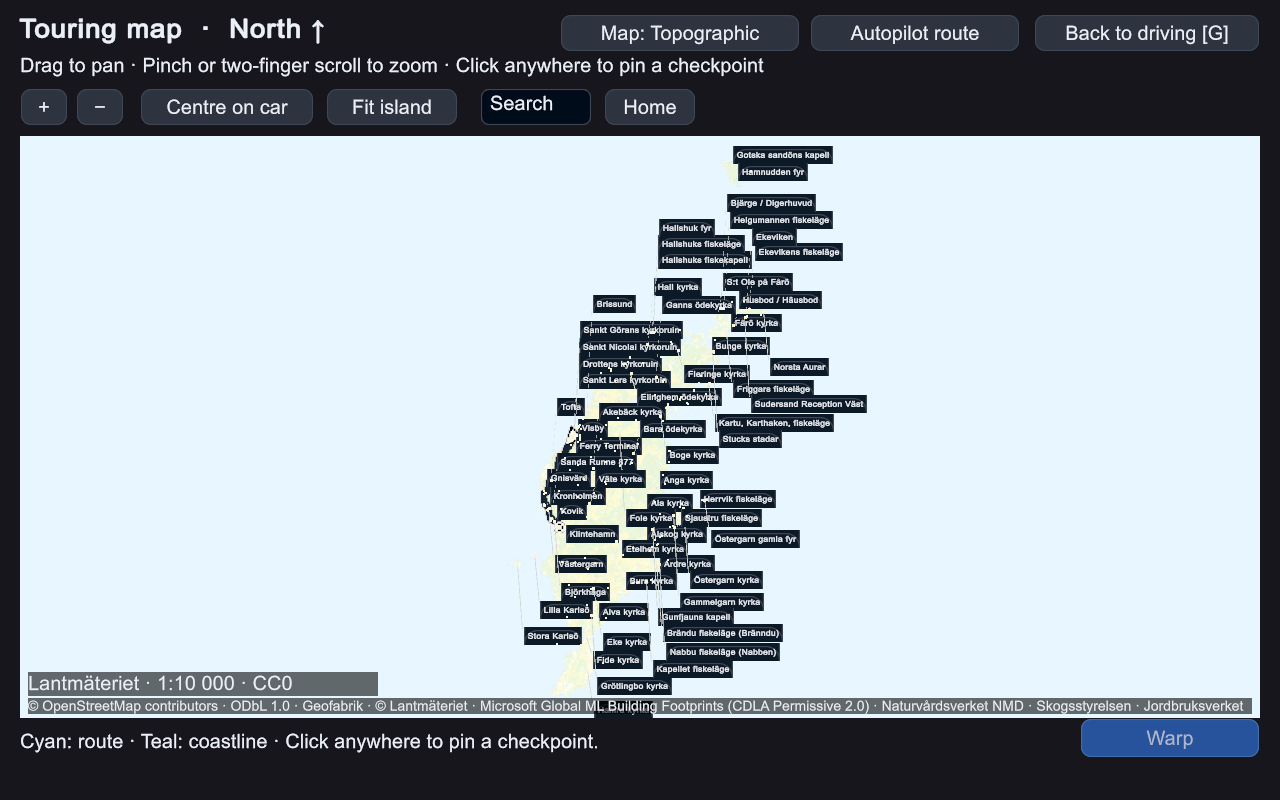
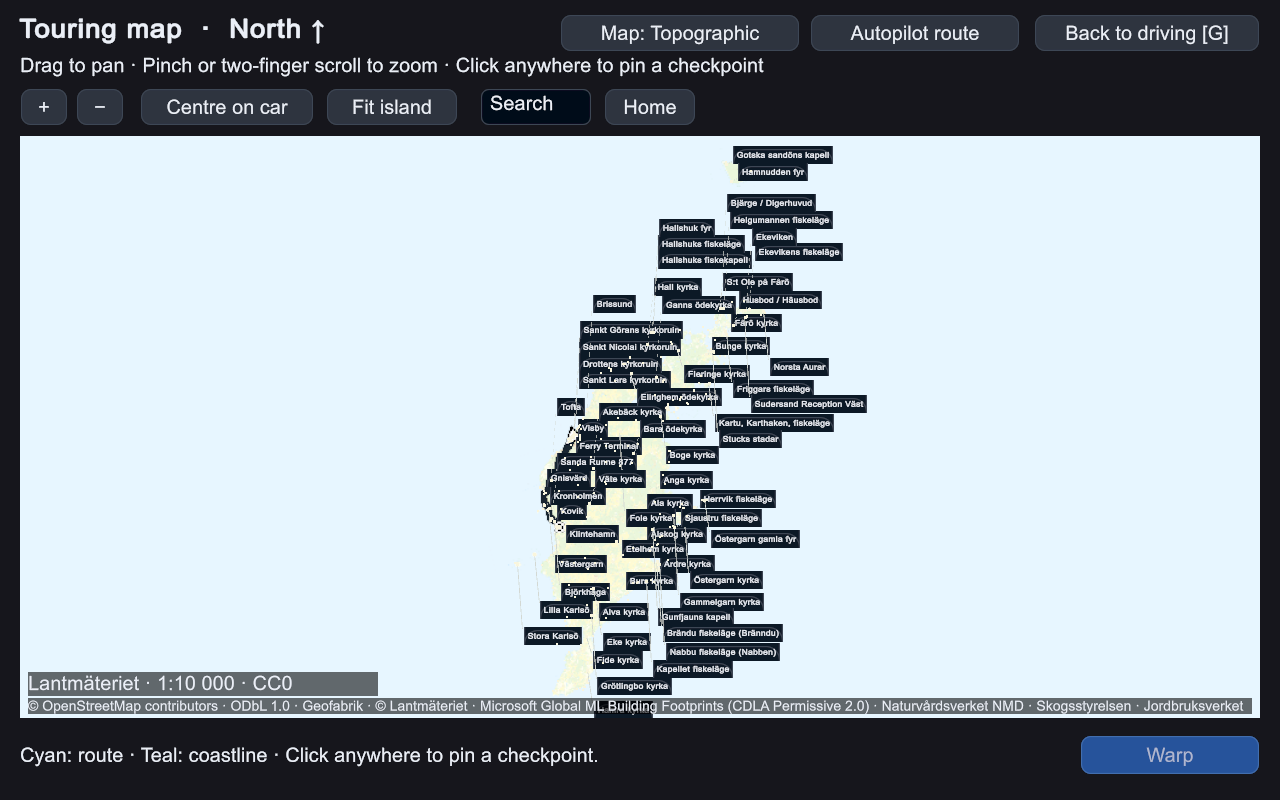
Refresh v0.1.4 screenshots and release download details

Changed region(s): [[0.0, 0.9062, 0.4688, 0.9688], [0.8438, 0.875, 1.0, 0.9688]]

diff --git a/README.md b/README.md
@@ -61,7 +61,7 @@ Use the named game files under **Releases → Assets**. GitHub's automatic **Sou
 
 | Package | Complete download | Installed size |
 |---|---:|---:|
-| macOS Apple Silicon | 5.124 GB | 5.481 GB |
+| macOS Apple Silicon | 5.125 GB | 5.481 GB |
 | Windows x64 | 5.108 GB | 5.531 GB |
 
 Sizes use decimal GB. When downloading an update, replace **all parts**
@@ -69,14 +69,14 @@ for that platform together; do not mix old and new files.
 
 ## Latest update
 
-- Modern dark menus and rounded controls. Gotland Ring groups the lap timer, FPS and side slip in one bottom-right panel, with five small buttons on one row and copyright in the footer. The space below the minimap stays clear.
+- Modern dark menus and rounded controls. Gotland Ring groups the lap timer, FPS and side slip in one bottom-right panel, with five small buttons on one row and copyright in the footer. Each button shows its assigned key, including custom bindings. The space below the minimap stays clear.
 - **J** toggles the driving HUD; **K** saves a Desktop PNG with location and camera metadata.
 - **Keyboard help & setup** in the Escape menu lets you change individual key bindings, shared between Touring and Gotland Ring.
 
 ## New in v0.1.4
 
 - **Saved Home:** choose a POI, a searched destination, a map pin or your current car position from **G → Home**. The next launch starts there directly, facing the saved direction.
-- **Compact G-map controls:** a smaller search box, a **Home** button and the saved POI name beside it.
+- **Compact G-map controls:** a smaller search box, a **Home** button and the saved POI name beside it. **Warp** sits in the footer below the map, clear of the map and attribution.
 - **Kovik Quay:** search and warp onto the concrete quay facing the chapel. As a route stop, autopilot follows the gravel road past the parking lot to the quay.
 - **Visby → Kovik Quay** is the default tour when no custom route has been saved. Existing saved routes are retained.
 - **Kovik scenery:** the chapel, museum huts, white house and surrounding pines, historical lysstång, fences, gates, parking lot, noticeboard and signs follow the supplied references.
